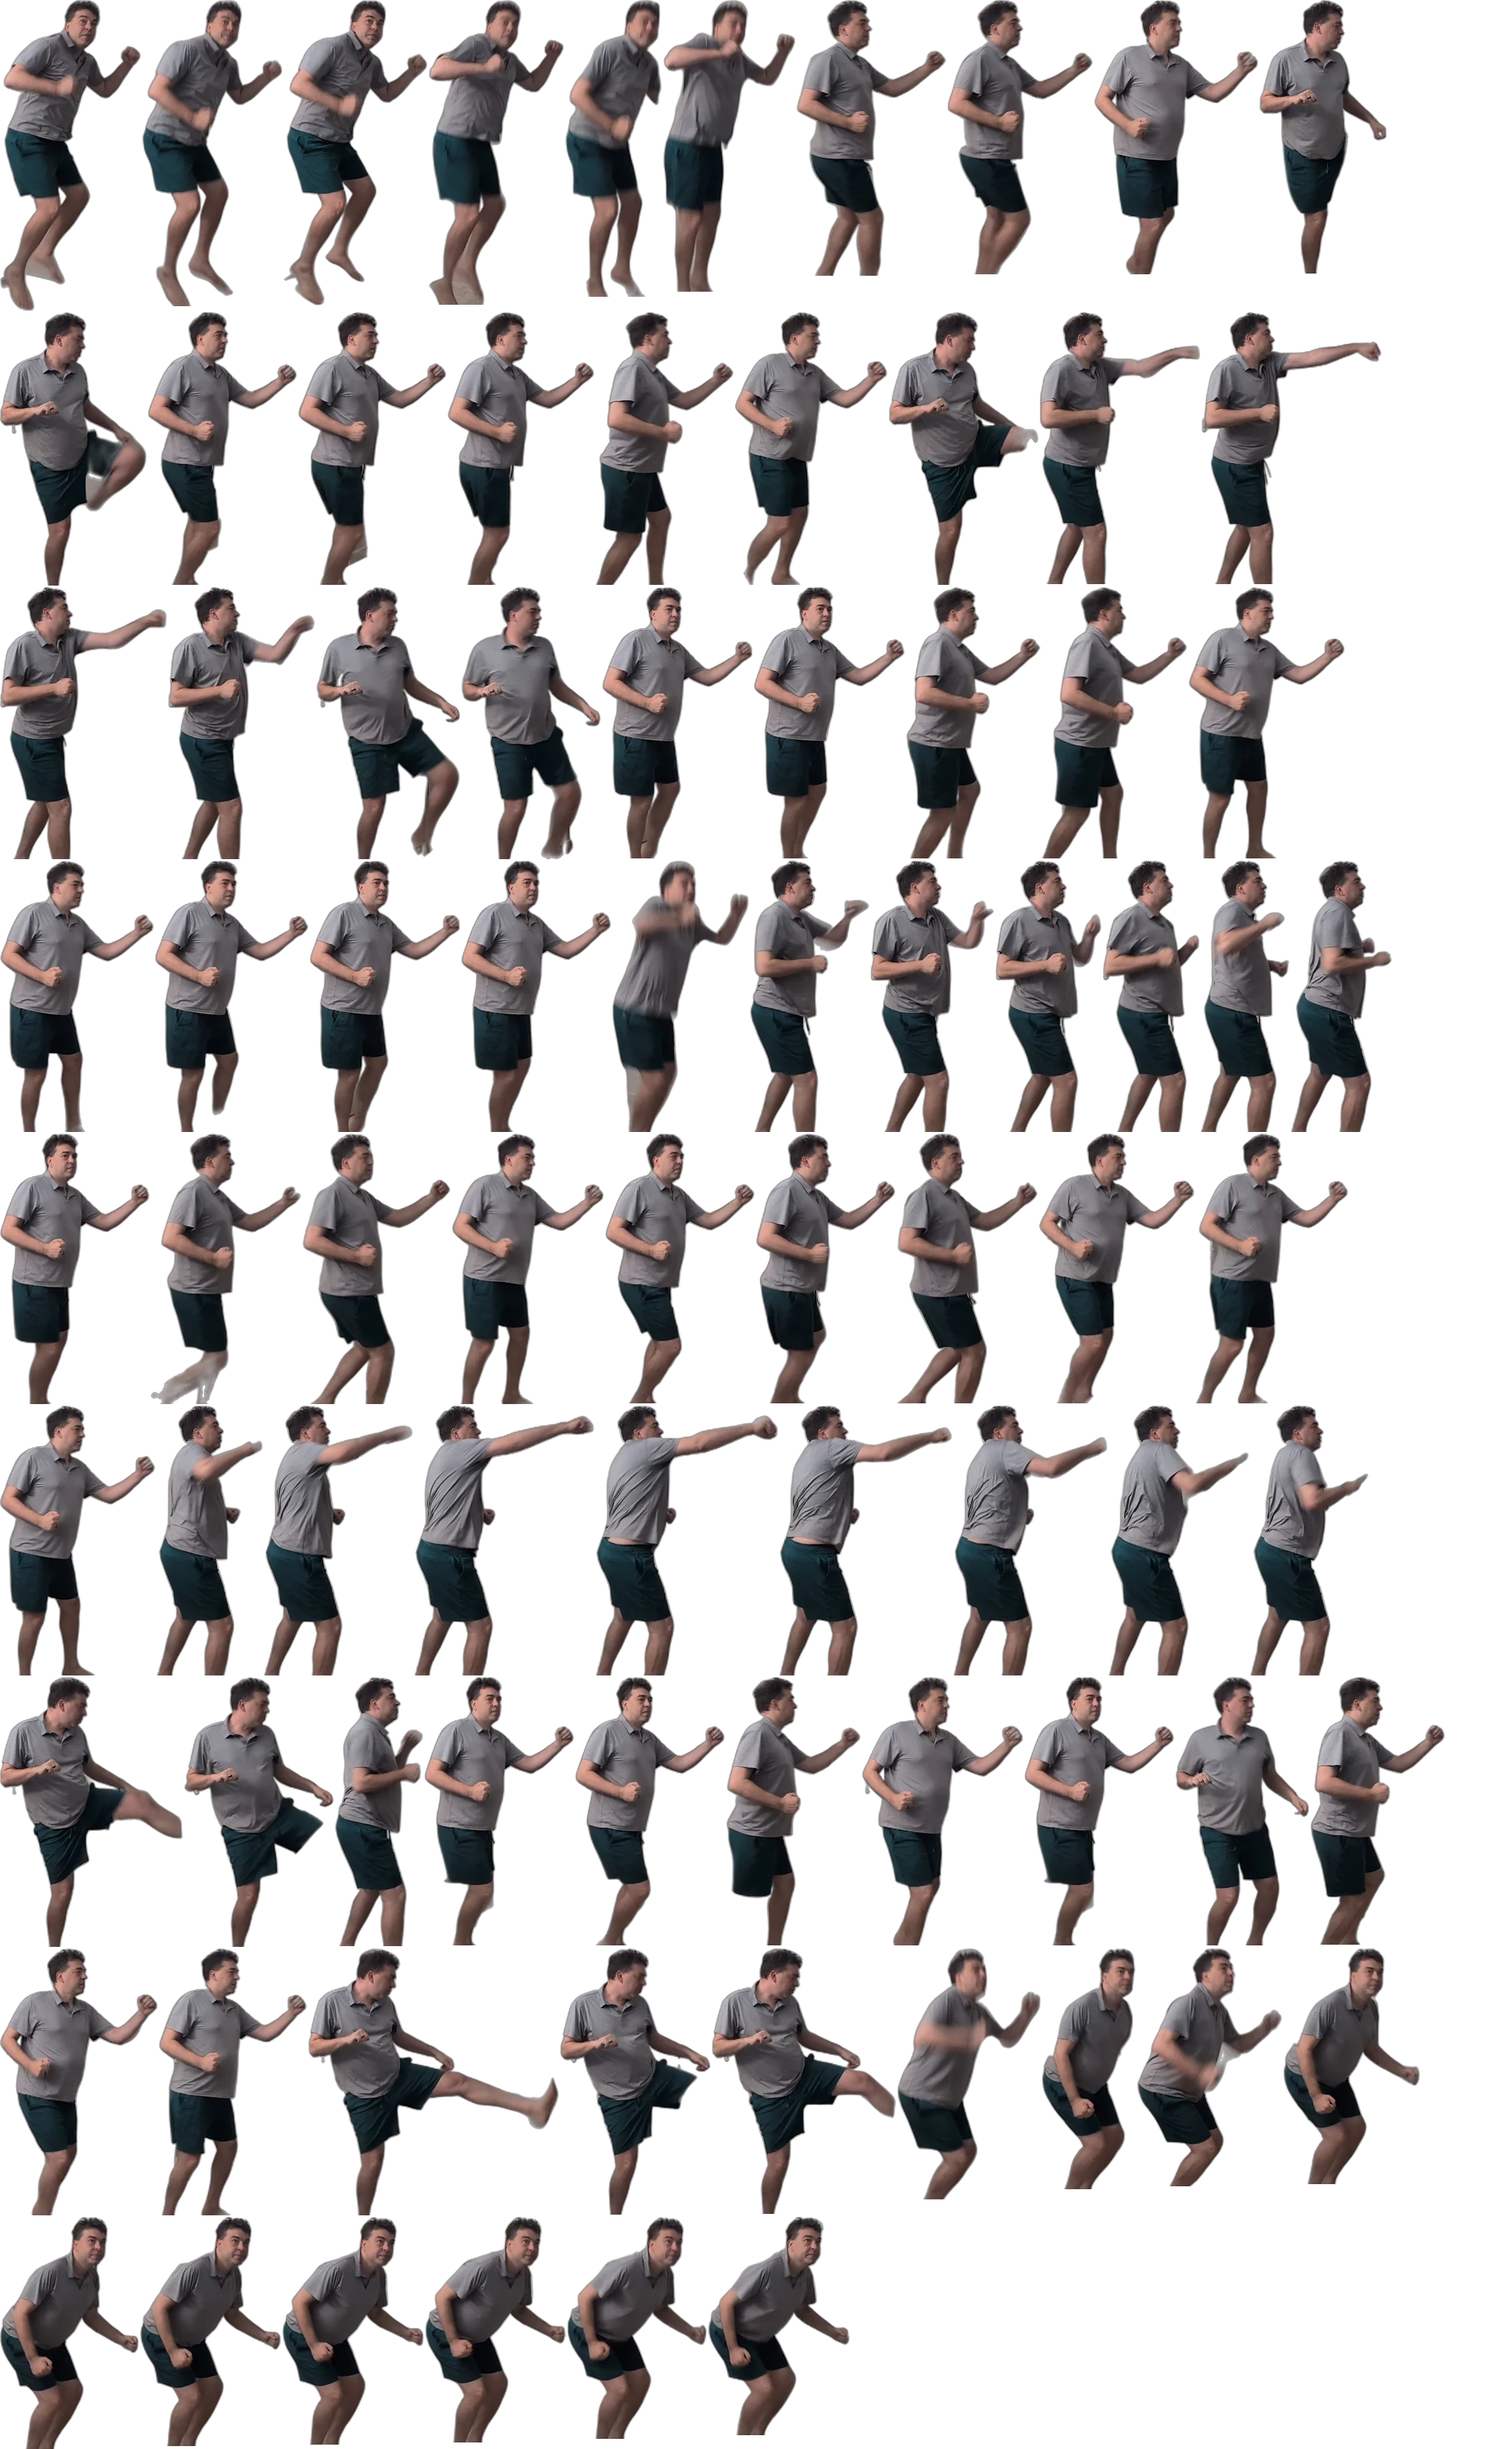
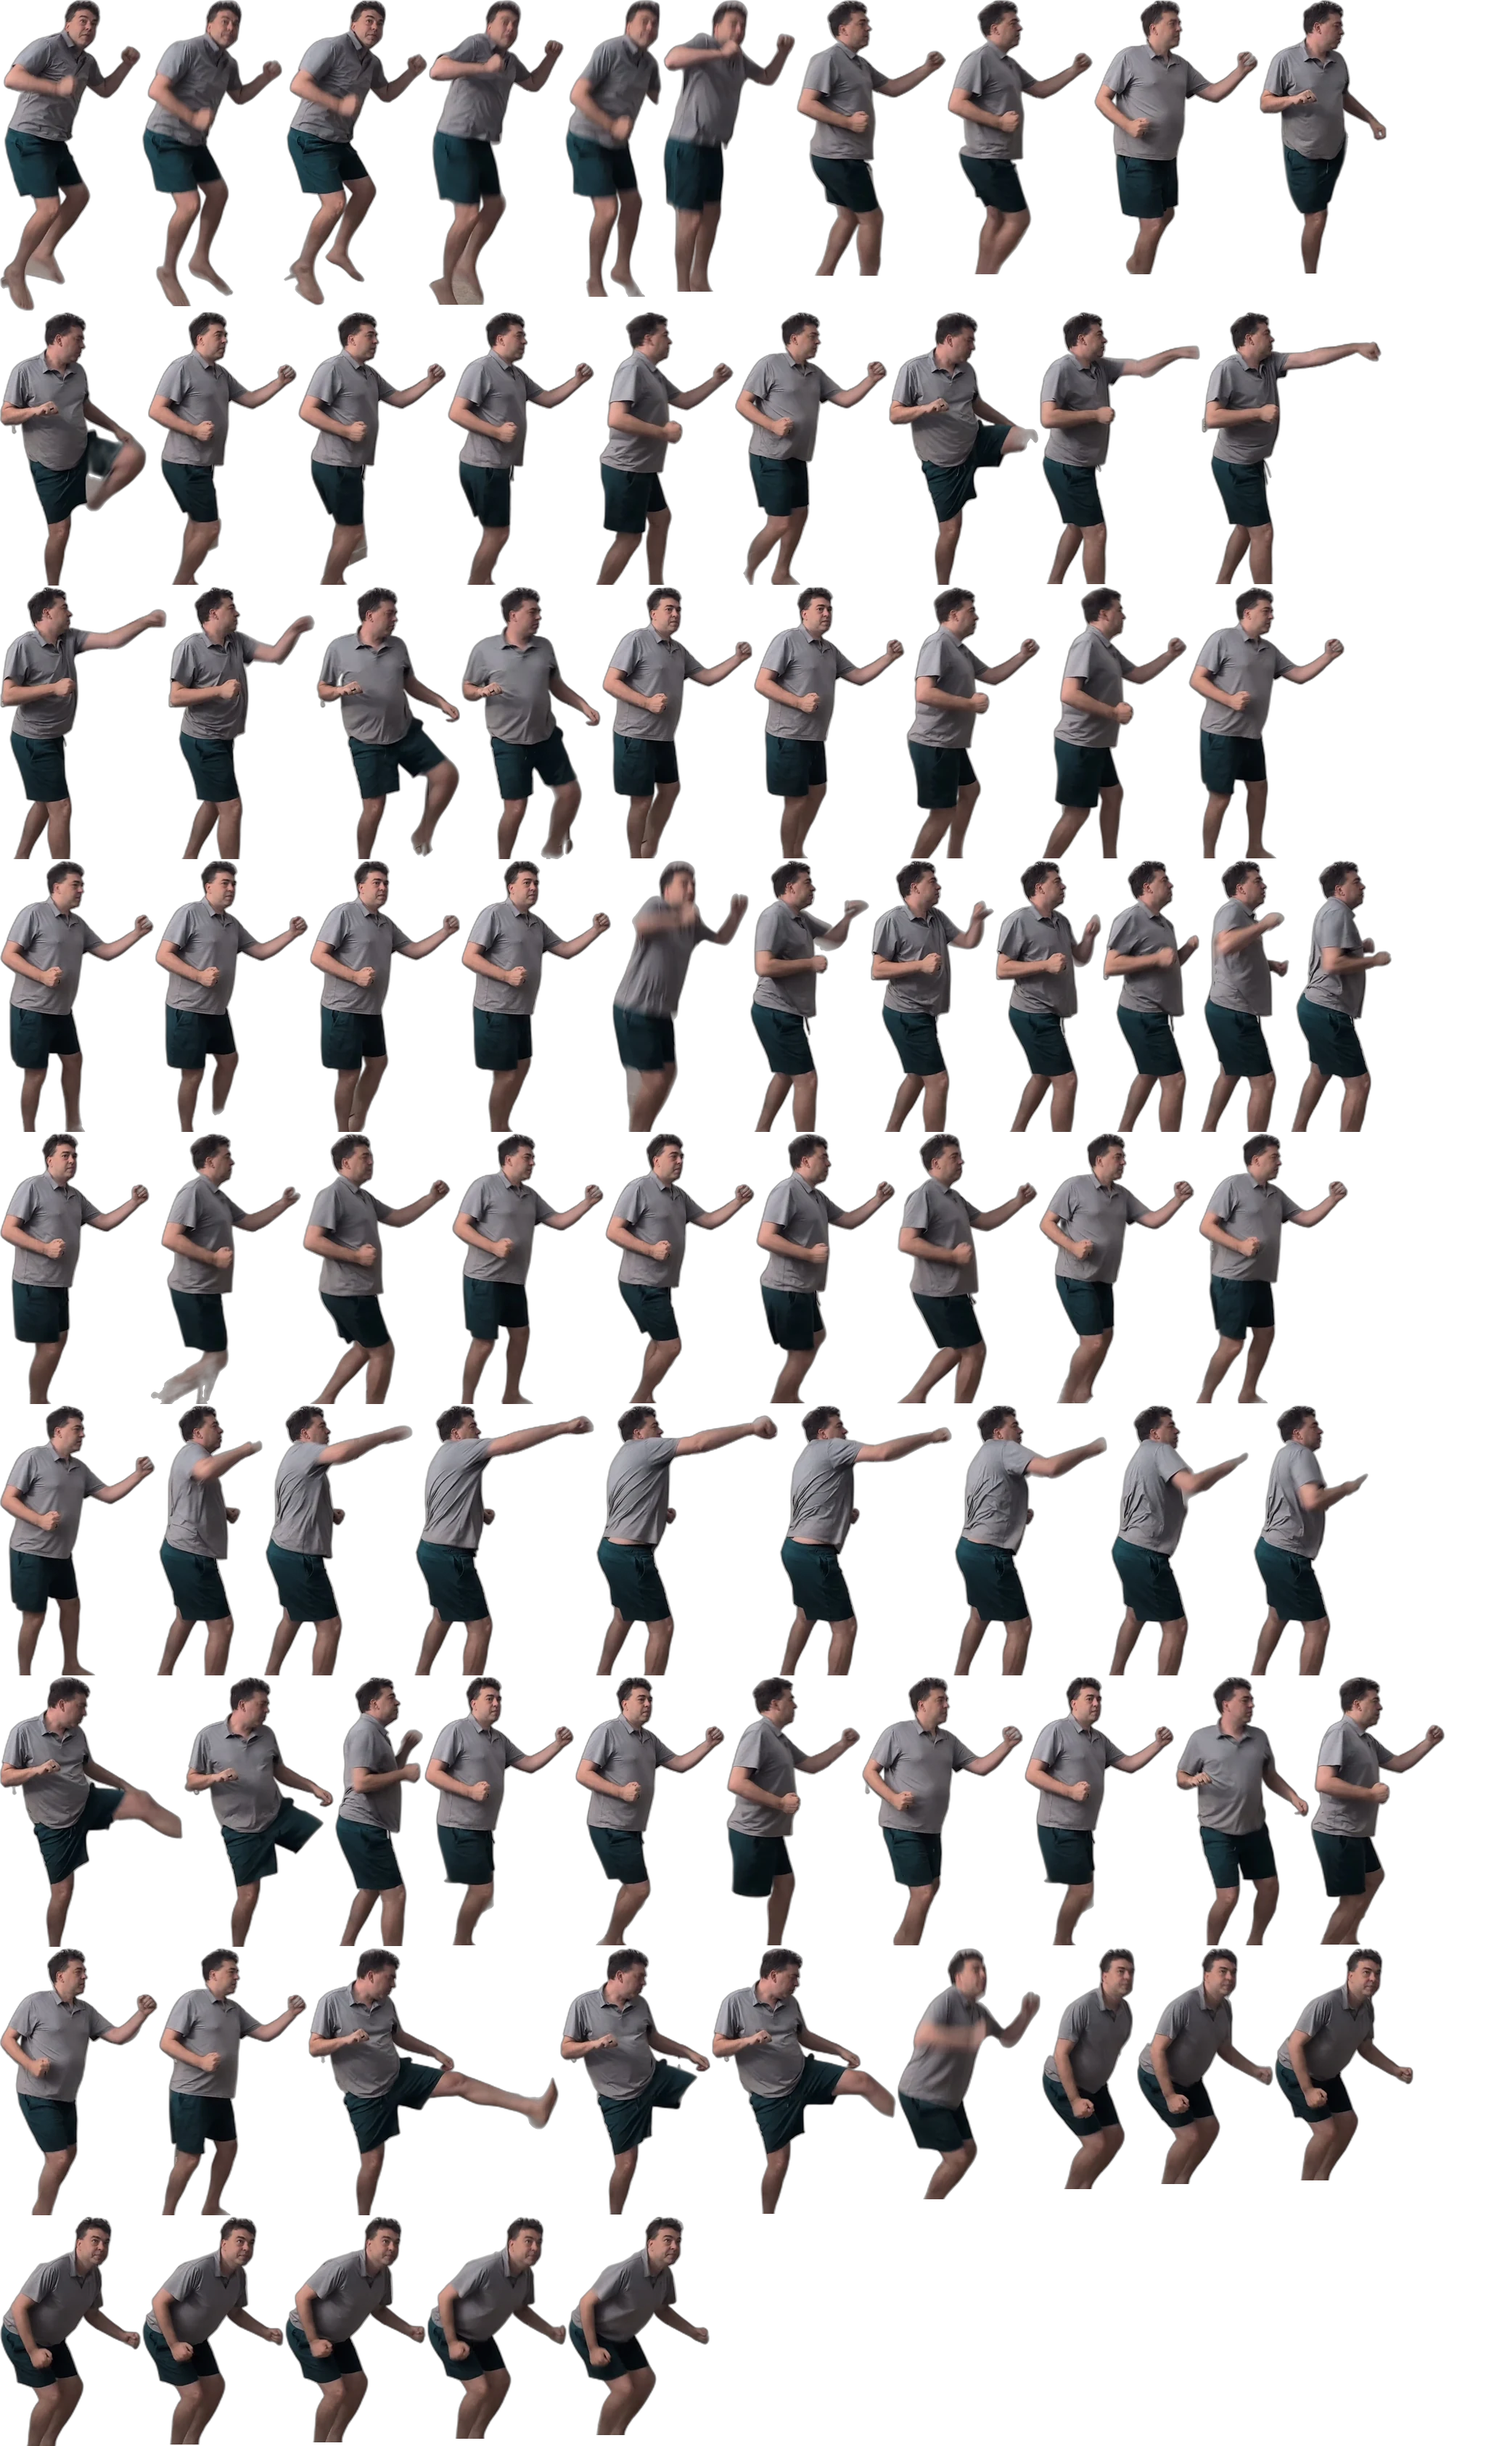
pofighter: walk at the filmed speed, snappier attacks and jump

diff --git a/src/PoMiniGames.Client/wwwroot/js/pofighter/sim.js b/src/PoMiniGames.Client/wwwroot/js/pofighter/sim.js
@@ -11,7 +11,6 @@ export const WORLD = {
     bagX: 800, bagHalf: 48,
     // The fighter stops where the raised guard just touches the bag; only an attack reaches it.
     standOff: 150,
-    walkF: 210, walkB: 170,
     jumpLift: 120,
 };
 
@@ -88,14 +87,14 @@ export function step(state, input, dt, data) {
     const def = moves[state.move];
     const { index } = frameAt(def, state.t);
 
-    if (state.move === 'walkF') state.x += WORLD.walkF * dt;
-    else if (state.move === 'walkB') state.x -= WORLD.walkB * dt;
+    // A walk carries its own speed, measured from the footage so the feet do not slide.
+    if (def.speed) state.x += def.speed * dt;
     state.x = Math.min(maxX(), Math.max(WORLD.minX, state.x));
 
     if (state.move === 'jump') {
-        // The first quarter of the pictures is the wind-up on the ground.
+        // The first pictures are the wind-up on the ground.
         const p = Math.min(1, (state.t * def.fps) / def.frames.length);
-        const a = Math.min(1, Math.max(0, (p - 0.25) / 0.65));
+        const a = Math.min(1, Math.max(0, (p - 0.15) / 0.75));
         state.lift = WORLD.jumpLift * 4 * a * (1 - a);
     }
 

diff --git a/scripts/pofighter/pack.py b/scripts/pofighter/pack.py
@@ -6,7 +6,8 @@ Outputs <fighter>.webp (sheet), <fighter>.json (frame rects and anchors) and rev
 Every frame's anchor is the point that sits on the fighter's ground position in the game:
 x = the body's centre line, y = the ground line. "world" moves keep the body motion that
 was filmed (one anchor for the whole move); "track" moves (walks) are re-centred per frame
-so the game supplies the travel.
+so the game supplies the travel, at the "speed" measured from the footage. "rate" plays a
+move faster than it was filmed (and scales a walk's speed with it).
 """
 import json
 import pathlib
@@ -35,6 +36,10 @@ def main() -> None:
         imgs = [Image.open(cut / f"f{i:04d}.png") for i in ids]
         alphas = [np.array(im)[..., 3] for im in imgs]
         xs = [torso_x(a, ground, stand) for a in alphas]
+        # Walks travel at the speed the performer really moved, so the feet do not slide.
+        rate = mv.get("rate", 1)
+        seconds = (ids[-1] - ids[0]) / cfg["sourceFps"]
+        travel = (xs[-1] - xs[0]) * scale / seconds * rate if mv["anchor"] == "track" else None
         if mv["anchor"] == "world":
             xs = [xs[0]] * len(xs)
         else:  # light smoothing so the walk does not jitter
@@ -50,7 +55,9 @@ def main() -> None:
             frames.append({"src": i, "ax": round((ax - x0) * scale, 1), "ay": round((ground - y0) * scale, 1),
                            "r": round((x1 - ax) * scale, 1)})
             cells.append((crop, frames[-1]))
-        meta[name] = {"loop": mv["loop"], "fps": cfg["sourceFps"] / mv["step"], "frames": frames}
+        meta[name] = {"loop": mv["loop"], "fps": cfg["sourceFps"] / mv["step"] * rate, "frames": frames}
+        if travel is not None:
+            meta[name]["speed"] = round(travel, 1)
         if mv.get("attack"):
             # A picture can hit once the limb is past 60% of its full extension.
             reach = [f["r"] for f in frames]
